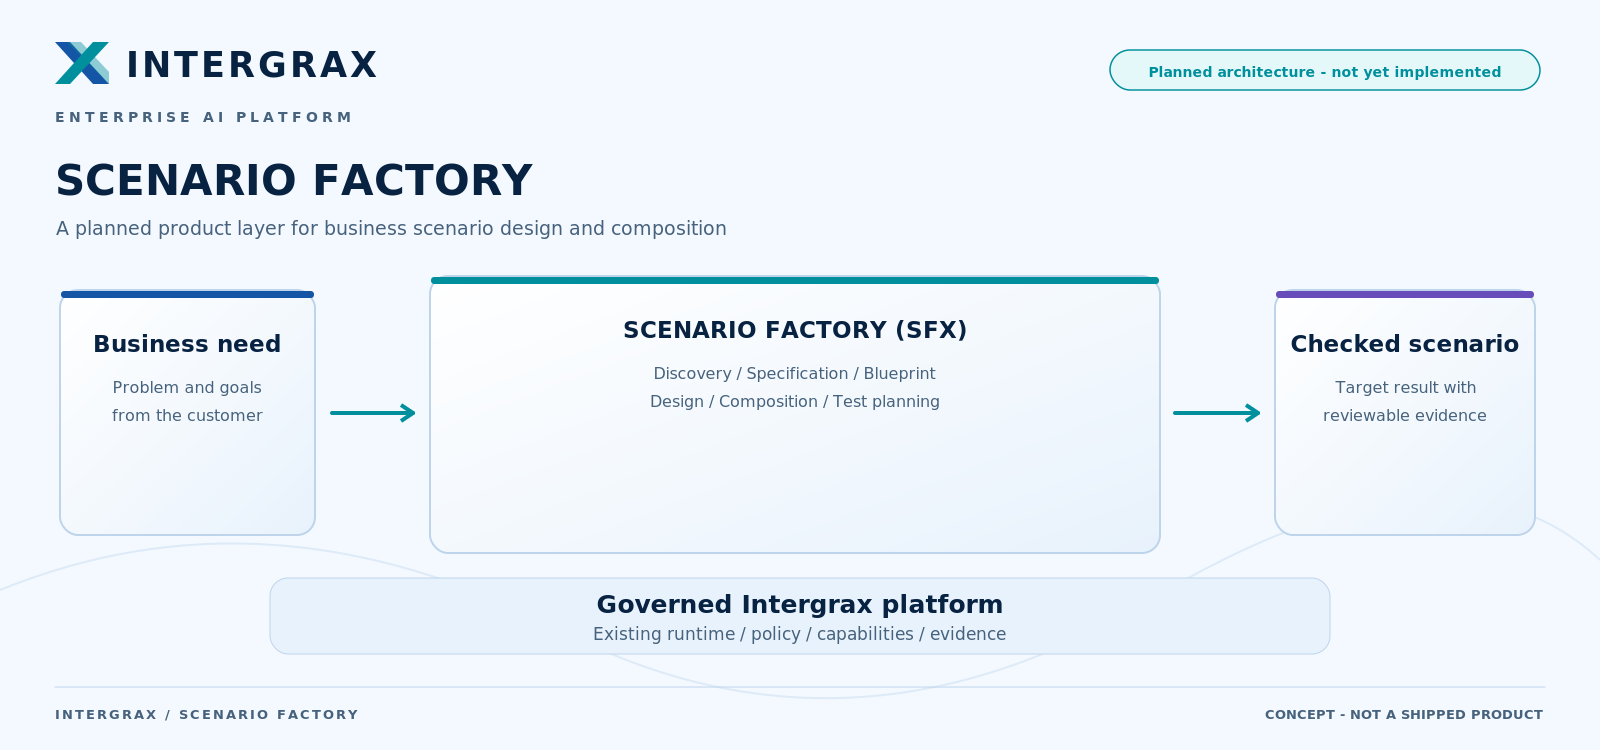
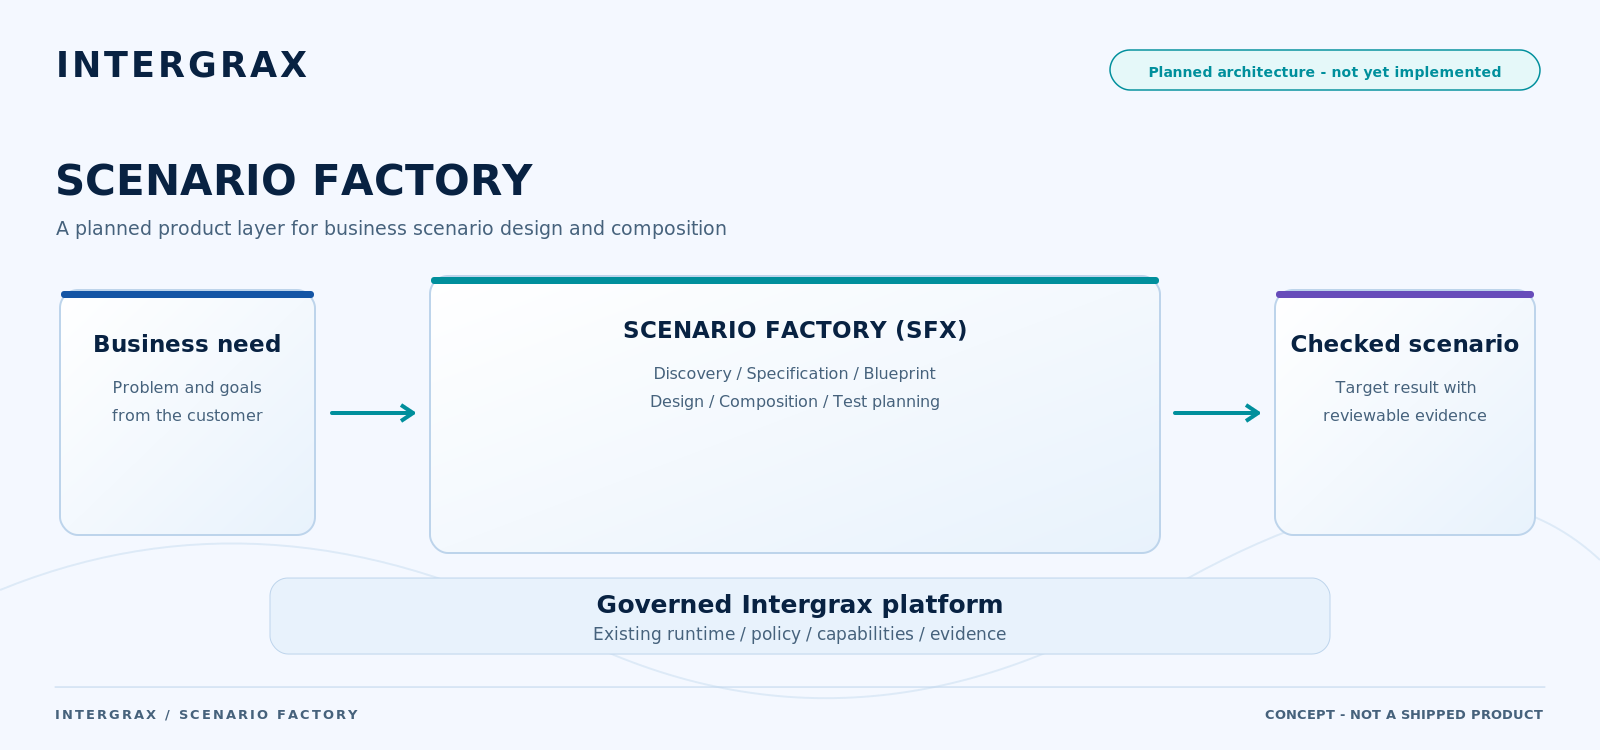
docs(sfx): integrate final operator visual package and record round 3 visual check (T-IGX-037-F)

Changed region(s): [[0.0312, 0.0307, 0.25, 0.1227], [0.1562, 0.1533, 0.2188, 0.184], [0.0312, 0.1533, 0.0938, 0.184]]

diff --git a/governance/tickets/T-IGX-037-F.md b/governance/tickets/T-IGX-037-F.md
@@ -116,3 +116,15 @@ Verdict: **FAIL as a publishable candidate**; text, governance and scope content
 
 Publication path: V-2 and V-9 resolved (new package or written operator decision) -> short re-check -> `Approved:` line for this ticket by the operator or a commissioned delegate -> PR -> merge by the operator -> pin commit (C6) -> closure record. None of these steps ran.
 
+## Visual check, round 3 (package `scenario_factory_assets_final.zip`)
+
+The six PNG files were extracted into an empty scratch folder, their SHA-256 values matched the list in the package's `ASSET_INTEGRATION.md`, and they replaced the previous files under the same names. Pixels were not edited. No text in README, the overview or the full-size pages needed a change; the corrected hero alt text already matches the images.
+
+| # | Result | Evidence |
+| --- | --- | --- |
+| V-1 | Closed | "INTERGRAX" / "Intergrax" in all six. |
+| V-2 | **Closed by removal** | The non-canonical X mark is gone from all six. The top-left lockup is the word "INTERGRAX" as plain bold text. It is not a reproduction of the canonical logo and no image claims to be the logo. |
+| V-3..V-8 | Closed | Status badge and footer in all six; neutral labels; "Checked scenario"; no edge artifacts. |
+| V-9 | **Closed** | The tagline "ENTERPRISE AI PLATFORM" is gone from all six. |
+| V-10 | Notes only | Large empty areas in hero boxes; step "Capability" is short for "Capability Resolution"; ownership image says "READINESS-owned patterns" (internal track name); the ownership connector arrowhead is slightly skewed. Optional for the image author. |
+
